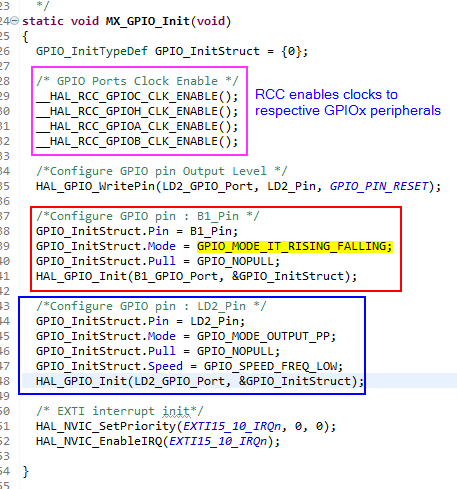
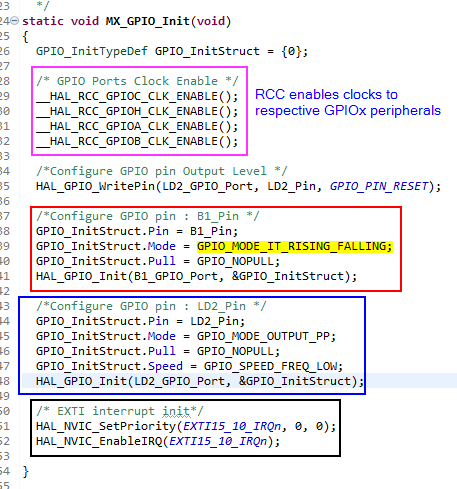
new files added to assets

Changed region(s): [[0.0613, 0.7975, 0.7352, 0.9509], [0.7352, 0.8282, 0.7659, 0.9202]]

diff --git a/assignments/week_3/led_button_isr.md b/assignments/week_3/led_button_isr.md
@@ -73,12 +73,17 @@
 
 
 ### Implementation
-#### Add a button to turn the LED on and off. 
-#### Button causes an interrupt. 
-#### Debounce the button signal.  
-##### **GPIO Configuration for button B1**  
+#### Add a button to turn the LED on and off. Button causes an interrupt. Debounce the button signal.  
+##### **GPIO Configuration for button B1 and LED LD2**  
 Interrupt is configured on B1 for both Rising and Falling edjes, to react for both press and release events.  
 ![STM32CubeIDE_GPIO_B1_Interrupt](assets/STM32CubeIDE_GPIO_B1_Interrupt.png)  
 
 ##### **Code generation**  
+In Rose: RCC enables clocks to the respective GPIOx peripherals.  
+In Red:  GPIO configuration for input button B1 [*macro expansion of Pin_B1 shows that it is defined as (uint16_t) 0x2000, which is bit 13*]  
+In Blue: GPIO configuration for output Led  
+In Black: EXTI interrupt has to be enabled in NVIC, otherwise interrupts doesn't get through to the Core.  
 ![STM32CubeIDE_CodeGen_GPIO_B1_Interrupt](assets/STM32CubeIDE_CodeGen_GPIO_B1_Interrupt.png)  
+
+##### **Button ISR Callback and Debouncing Timer**  
+![Button_ISRCallback_Debouncing](assets/Button_ISRCallback_Debouncing.png)  
